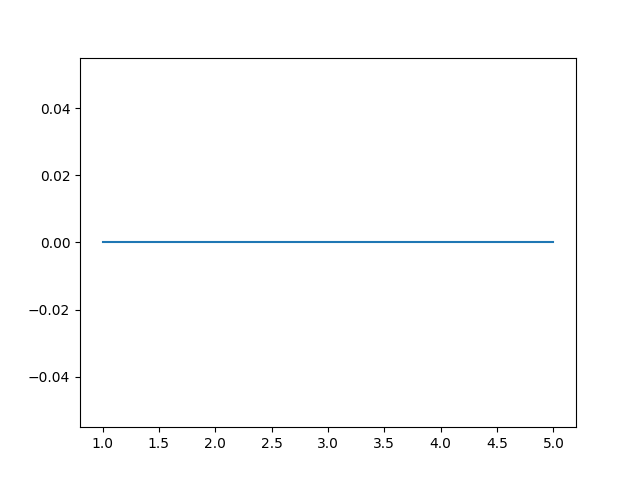
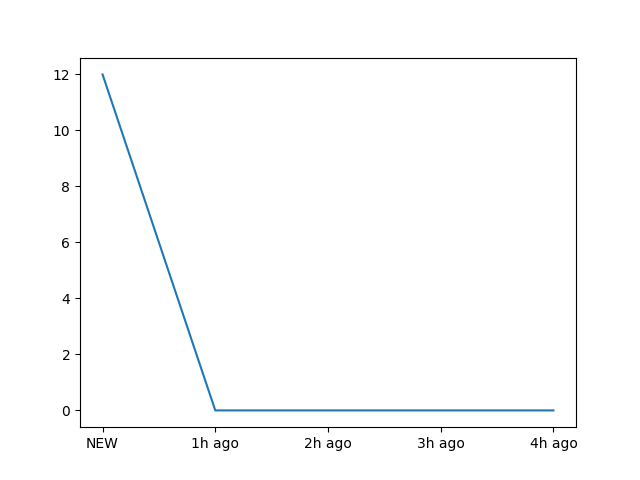
致命的な欠陥などの修正他

diff --git a/kusa/templates/kusa/raspsp.html b/kusa/templates/kusa/raspsp.html
@@ -15,7 +15,7 @@
 {% endif %}
     </div>
     <div class="topic">
-    <h1>直近24時間</h1>
+    <h1>直近5時間</h1>
     &nbsp&nbsp<img src="{% static imagesmilei %}" style="height: 40vh;width: 60vw;">
     </div>
     <div class="topic">
@@ -31,7 +31,7 @@
 {% endif %}
     </div>
     <div class="topic">
-    <h1>直近24時間</h1>
+    <h1>直近5時間</h1>
     &nbsp&nbsp<img src="{% static imagesmiles %}" style="height: 40vh;width: 60vw;">
     </div>
     <div class="foot">個体名:{{ raspbid }}&nbsp&nbsp個体番号:{{ raspnum }}</div><br>

diff --git a/kusa/templates/kusa/404.html b/kusa/templates/kusa/404.html
@@ -1,0 +1,10 @@
+{% extends 'kusa/base.html' %}
+{% load static %}
+{% block title %}KUSA{% endblock %}
+{% block content %}
+    <div class="topic">
+        <h2 style="text-align: center;">404-NOTFOUND</h2>
+    </div>
+    <br>
+    <div class="foot">草が生える機械(仮)について</div>
+{% endblock %}

diff --git a/kusa/views.py b/kusa/views.py
@@ -25,7 +25,7 @@ def raspsp(request,pk):
     raspnum=pk
     smileI_list=raspberry.objects.get(id=pk).smilei_set.order_by('-pushed_dateI')[:5]
     smileS_list=raspberry.objects.get(id=pk).smiles_set.order_by('-pushed_dateS')
-    left=np.array([1,2,3,4,5])
+    left=np.array(['NEW','1h ago','2h ago','3h ago','4h ago'])
     height=np.array([0,0,0,0,0])
     flag=0
     filenamei='static/kusa/img/'+str([pk])+'SmileIG.png'

diff --git a/oden/settings.py b/oden/settings.py
@@ -55,7 +55,7 @@ ROOT_URLCONF = 'oden.urls'
 TEMPLATES = [
     {
         'BACKEND': 'django.template.backends.django.DjangoTemplates',
-        'DIRS': [],
+        'DIRS': [os.path.join(BASE_DIR, 'kusa/templates/kusa')],
         'APP_DIRS': True,
         'OPTIONS': {
             'context_processors': [
